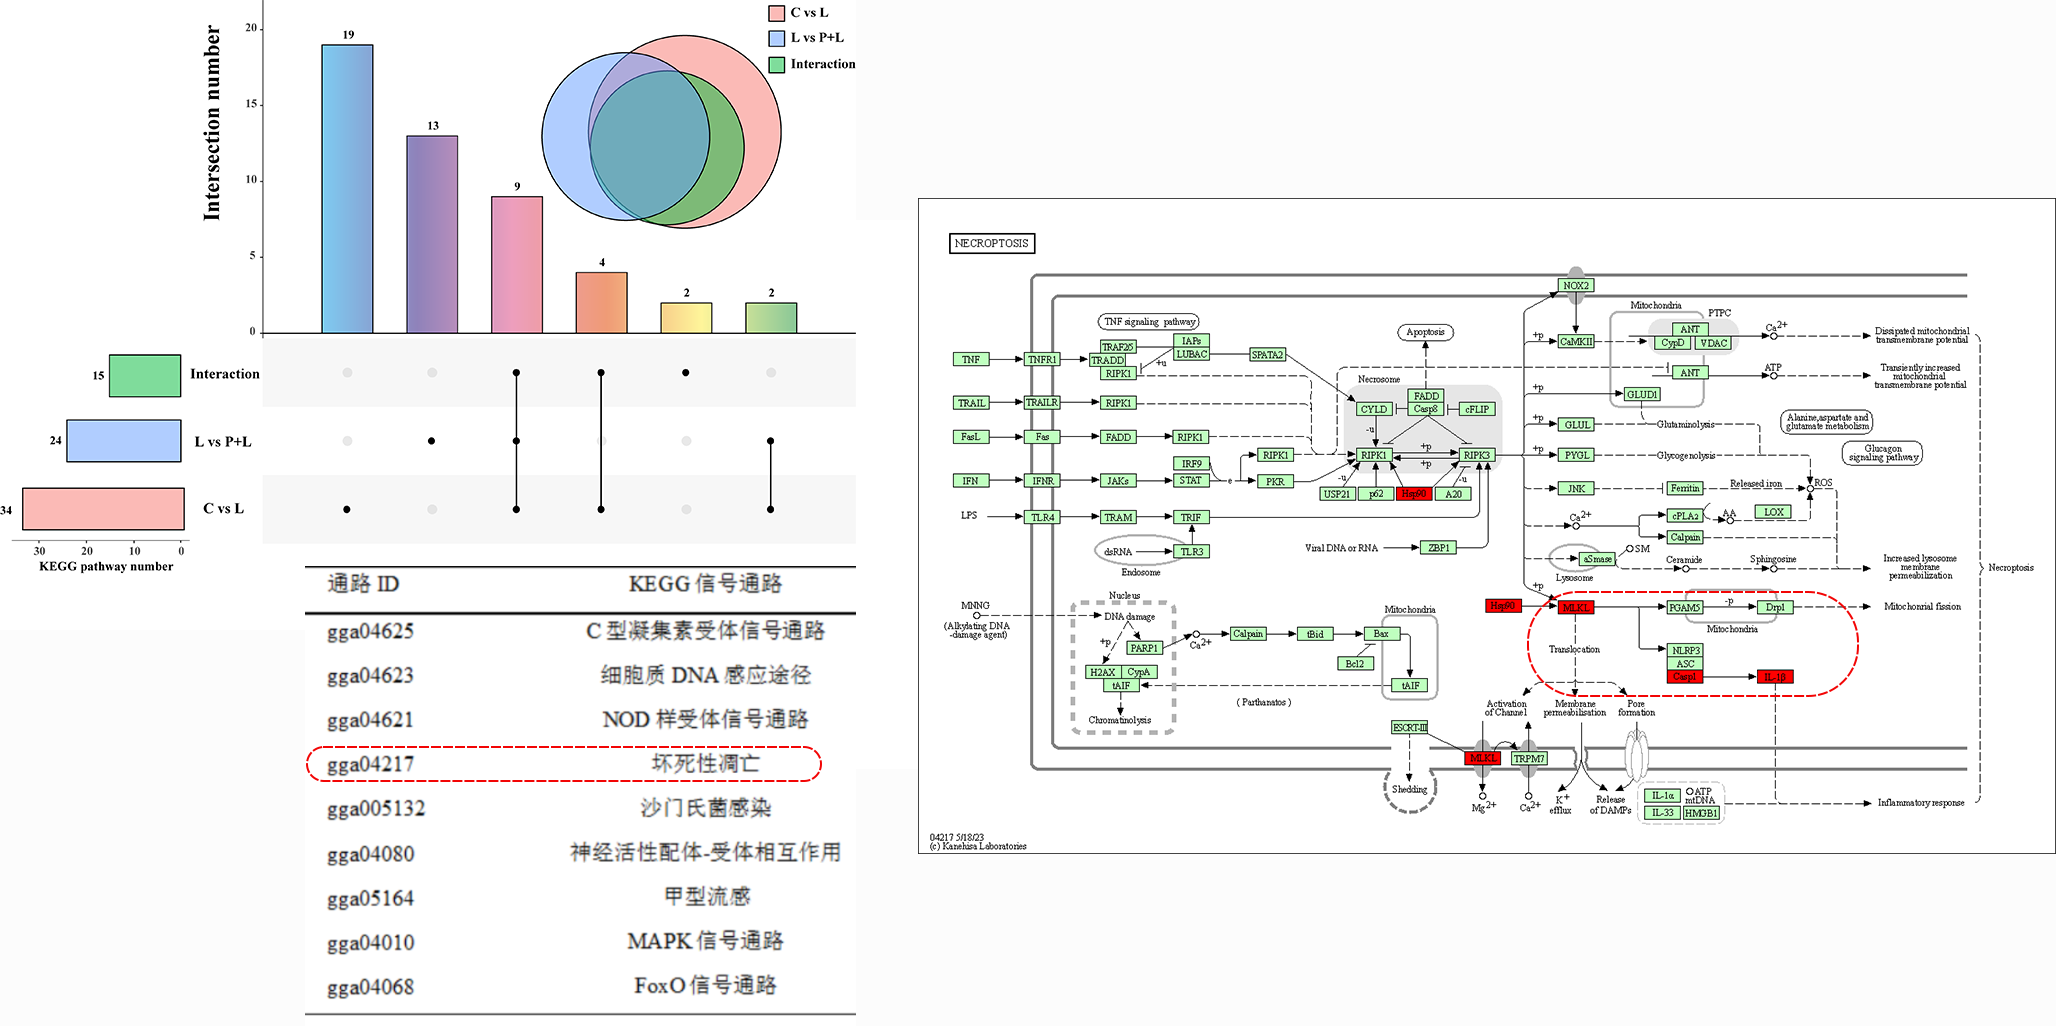
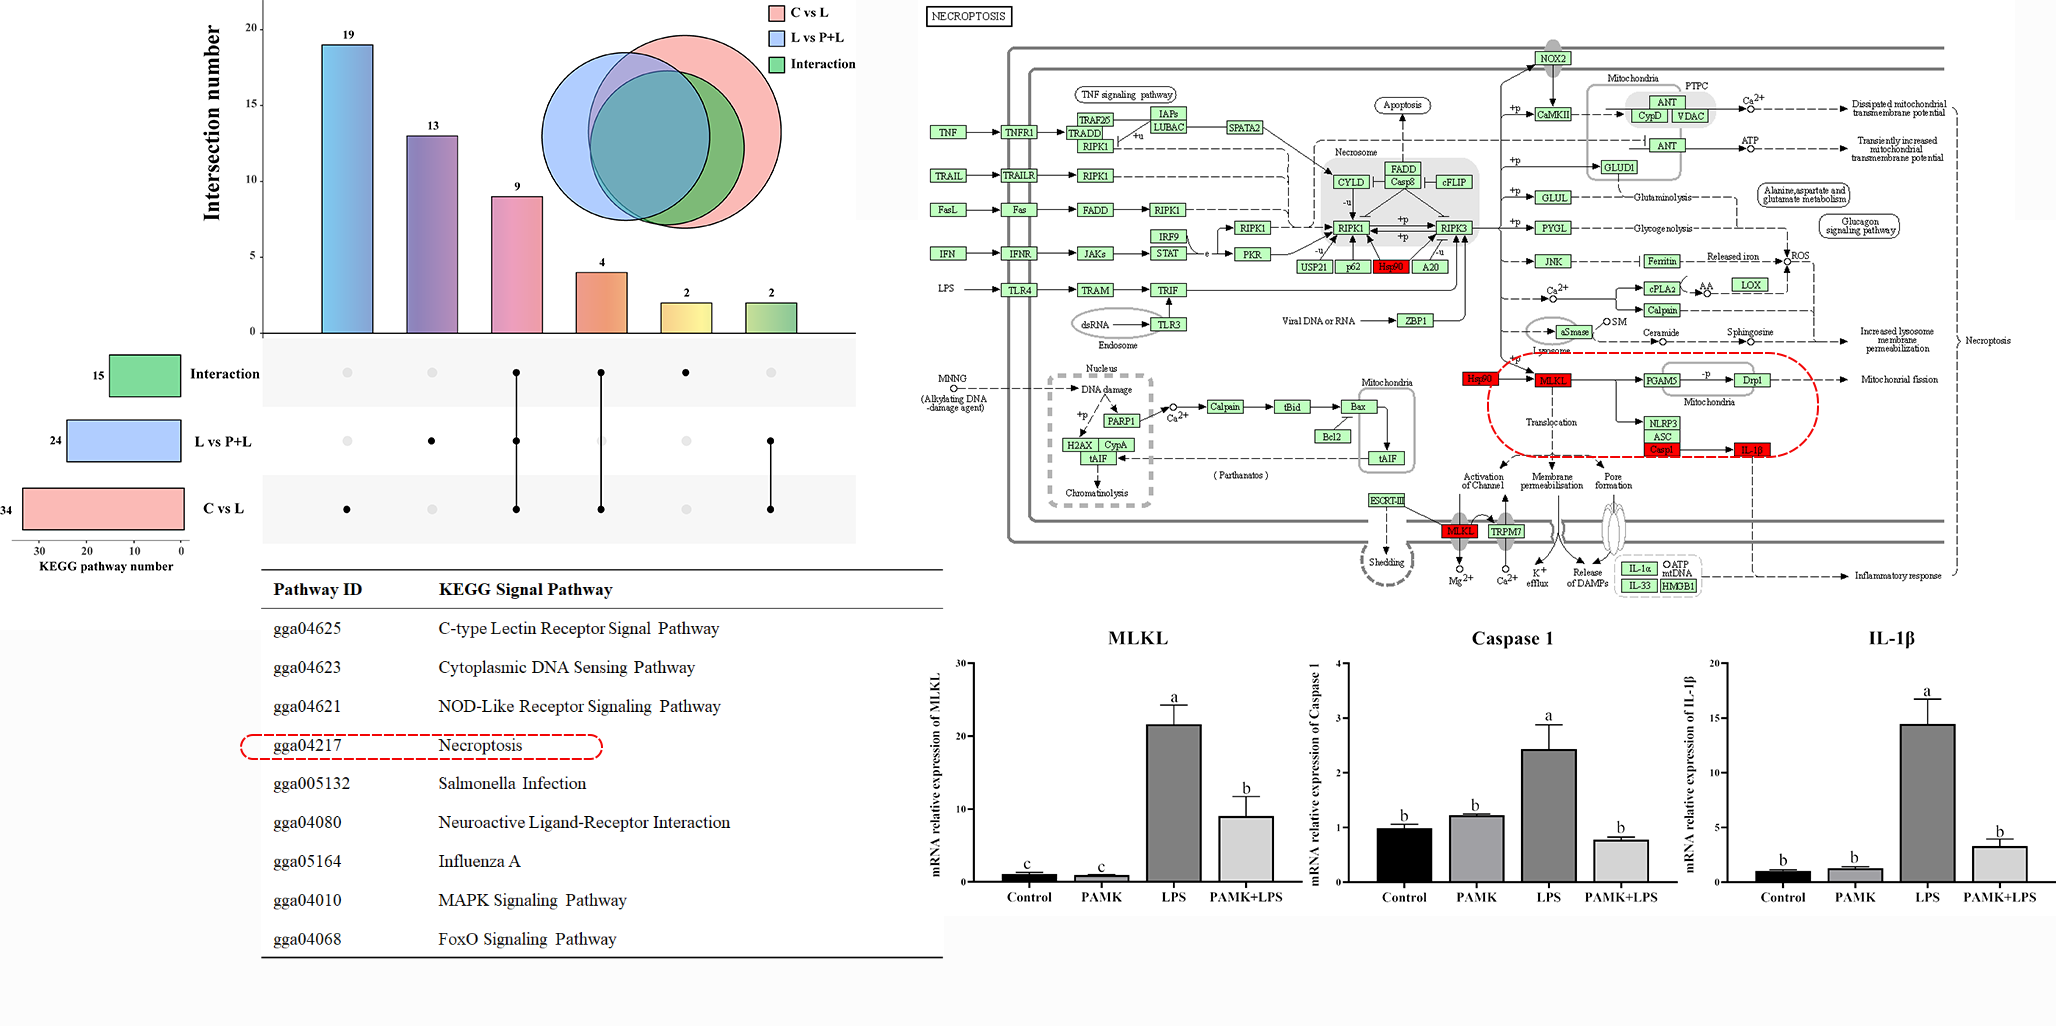
PAMK LIVER PROTECTION

Changed region(s): [[0.4358, 0.0312, 1.0, 0.9045], [0.1245, 0.5302, 0.4047, 0.9981], [0.4358, 0.0, 0.4981, 0.0312]]

diff --git a/PAMK Liver Protection.html b/PAMK Liver Protection.html
@@ -100,49 +100,48 @@ $(function() {
         <p>
 		</li>
 
-    <h2>Changes in Retina Function in Pre-myopic and Myopia </h2>
+    <h2>Effects of PAMK on LPS-Induced Liver cells Injury in Geese </h2>
 	</p>
-	The intersection analysis revealed that the DEGs from the three groups were commonly enriched in 9 key signaling pathways. Based on previous research and analysis, the MLKL/Caspase 1/IL-1β pathway was selected as the focus of the study.
+	PAMK significantly reduced LPS-induced necrosis in goose hepatocytes, decreased apoptosis, and improved liver cell damage by promoting cell proliferation and regulating the cell cycle. Additionally, PAMK effectively suppressed the increase in mRNA expression of MLKL, Caspase 1, and IL-1β induced by LPS.
         <p>
 		
         </p>
-        <center><img src="images/P-tonglu.png" alt="La2Ti2O7" height="400" align="middle"/></center>		
+        <center><img src="images/P-jiayao.png" alt="La2Ti2O7" height="400" align="middle"/></center>		
         <p>
 		
-	</p>
-	By comparing with the control group’s receptor intensity, it was found that in the retinal bipolar cells, the ON pathway is upregulated in the pre-myopic stage and downregulated in the myopic stage. Conversely, the OFF pathway shows the opposite trend. My hypothesis is that the ON pathway inhibits the onset of myopia, while the OFF pathway promotes the development of myopia.
-	<p>
-        </p>
-        <center><img src="images/OnOff.png" alt="La2Ti2O7" height="600" align="middle"/></center>		
-        <p>
        </li>
 	
-    <h2>Changes in Retina Function in Peripheral retina and Central retina </h2>
+    <h2>Effects of MLKL Inhibitors on LPS-Induced Liver cells Injury in Geese </h2>
 	</p>
-	Retinal regional division
-	<p>
+	NSA, as an MLKL inhibitor, significantly reduced LPS-induced necrosis in goose hepatocytes, decreased apoptosis, and alleviated LPS-induced liver cell damage by promoting cell proliferation and improving cell cycle progression. Additionally, NSA inhibited the increase in mRNA expression of Caspase 1 and IL-1β induced by LPS.
+		<p>
         </p>
-	<center><img src="images/Region.png" alt="La2Ti2O7" height="500" align="middle"/></center>
-	<p>
+	<center><img src="images/P-yizhi.png" alt="La2Ti2O7" height="500" align="middle"/></center>
+		<p>
+		</li>
+		
+	<h2>Effects of PAMK on MLKL-induced Goose Liver cells Injury in Geese </h2>
 	</p>
-	Comparisons were made of the affected pathways within the phototransduction pathway across different regions, revealing that the central region of the retina is the area most impacted during the development of myopia.
-	<p>
-	</p>
-	<center><img src="images/VisualRegion.png" alt="La2Ti2O7" height="500" align="middle"/></center>
-	<p>
+	PAMK significantly downregulated the expression of key genes MLKL, Caspase 1, and IL-1β induced by MLKL overexpression in goose hepatocytes, reduced cell necrosis and apoptosis, promoted cell proliferation, and improved cell cycle progression. These findings confirm the potential role of PAMK in regulating the MLKL signaling pathway and alleviating liver damage.
+        <p>
+		
         </p>
-        Comparisons were made of the changes in the ON and OFF pathways across different regions, and it was found that the alterations occurring in the central region of the retina were the most pronounced.
-	<p>
-        </p>
-	<center><img src="images/OnOffRegion.png" alt="La2Ti2O7" height="300" align="middle"/></center>
-	<p>
+        <center><img src="images/P-guobiaoda.png" alt="La2Ti2O7" height="400" align="middle"/></center>		
+        <p>
+		
+       </li>
 	
 
 
 	<h2>Publications</h2>
 	<ol>
+		
 		<li>
-			<p>In Submission.
+            <p>Bingxin Li†, <a href="https://www.mdpi.com/2076-2615/13/1/127">Longsheng Hong</a>†, Yindan Luo, et al. "LPS-Induced Liver Injury of Magang Geese through Toll-like Receptor and MAPK Signaling Pathway." Animals(Basel). 2022. &nbsp;</a>
+        <li> 
+            <p>Bingqi Zhang, <a href="https://www.sciencedirect.com/science/article/pii/S0032579123000068">Longsheng Hong</a>, Jingfei Ke, et al. "Polysaccharide of Atractylodes Macrocephala Koidz Alleviate Lipopolysaccharide-Induced Liver Injury in Goslings via the P53 and FOXO Pathways." Poult Sci. 2023. &nbsp;</a>
+		<li> 
+			<p>	Parts of the research content remain unpublished.
 		</p>
 			
 
